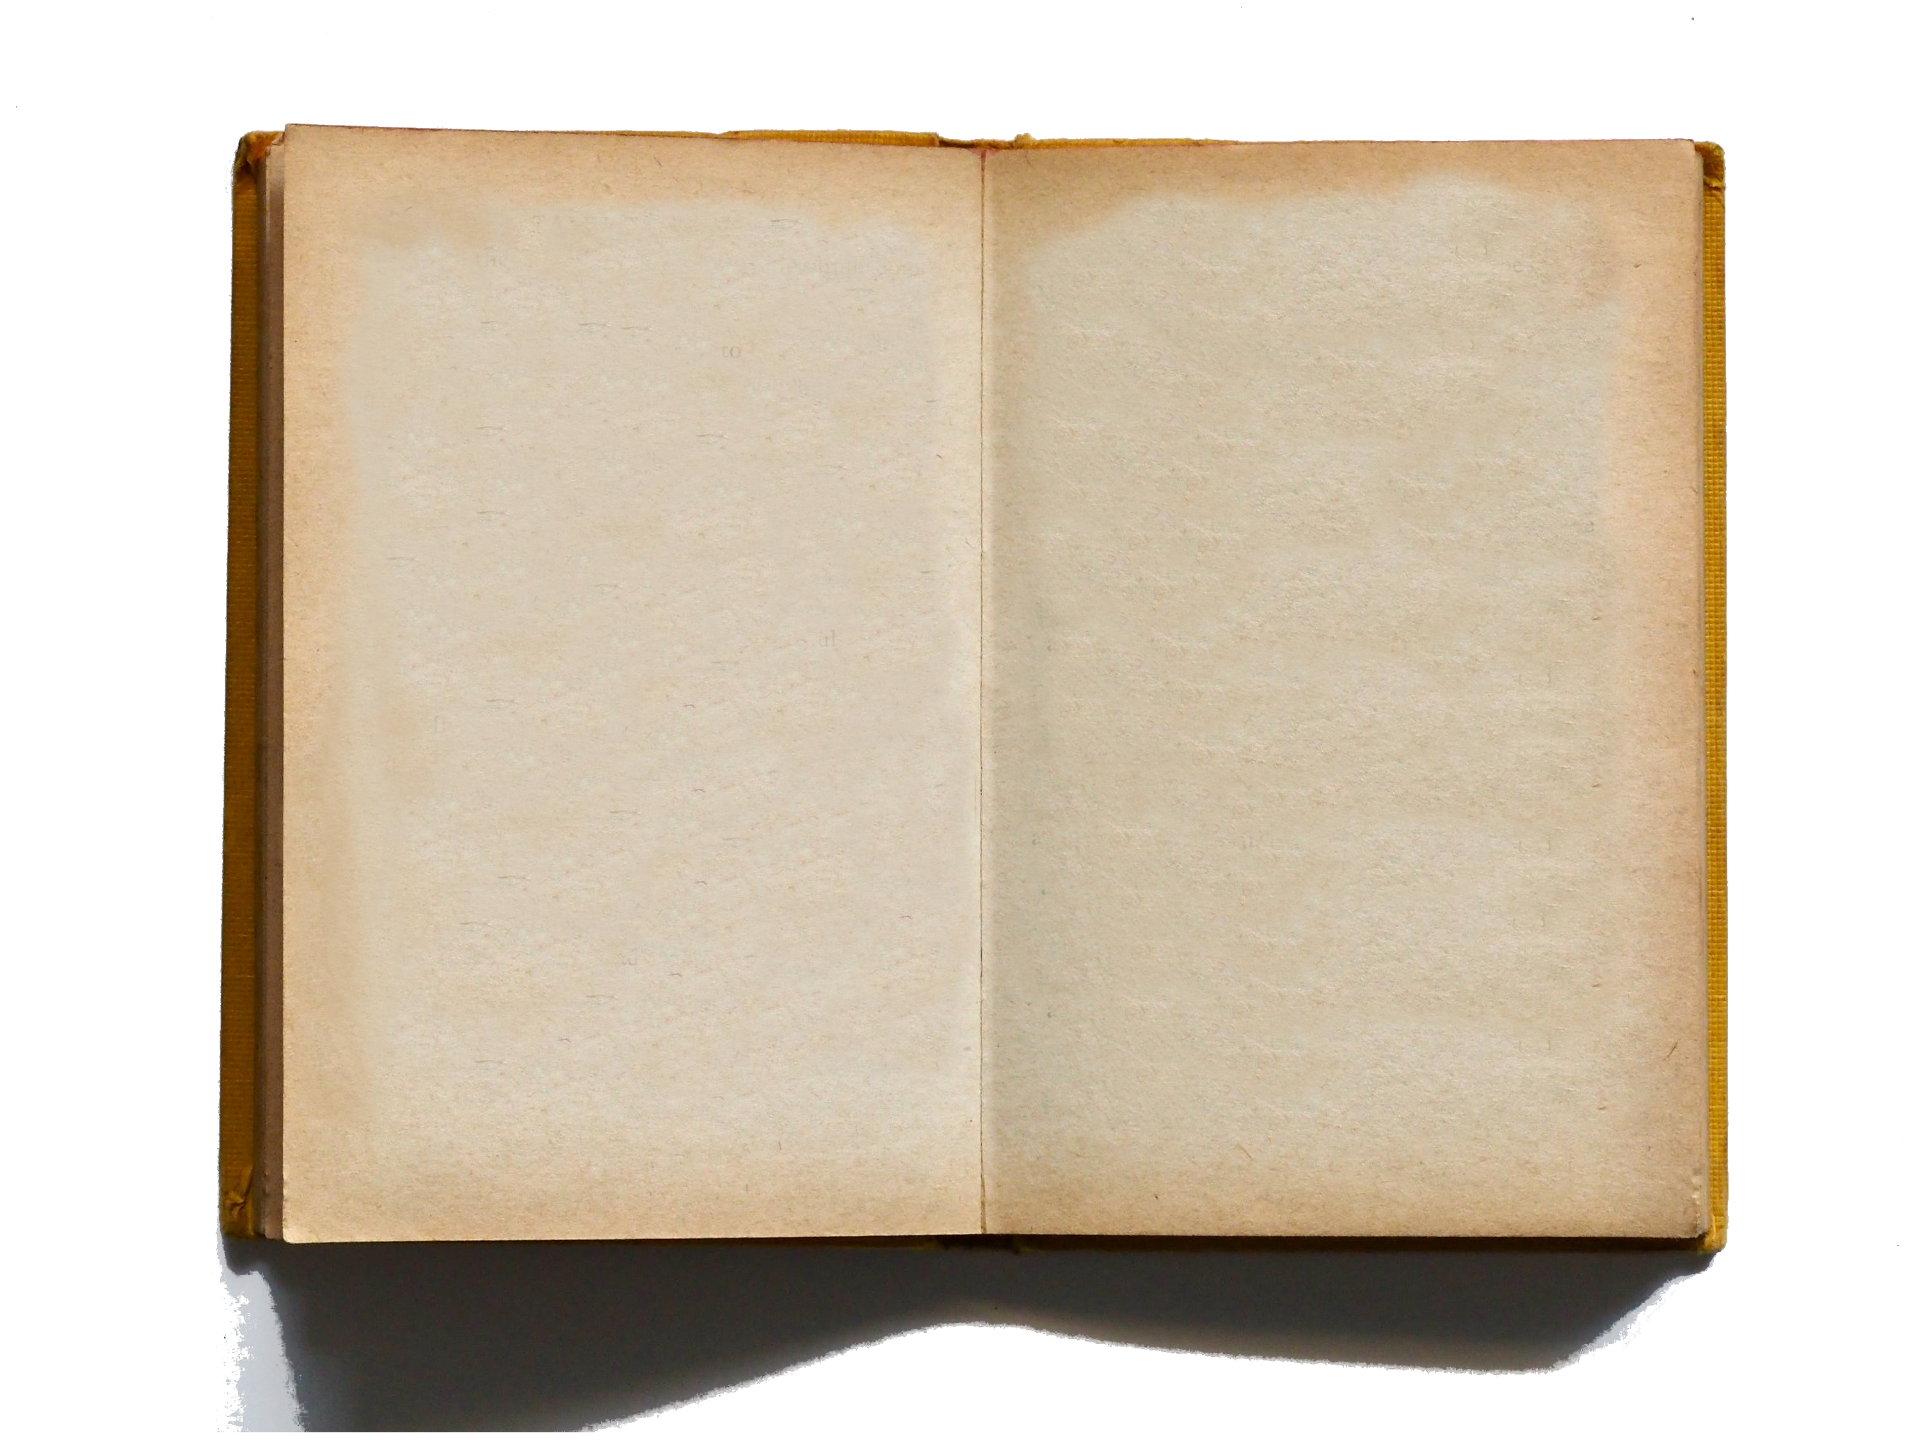
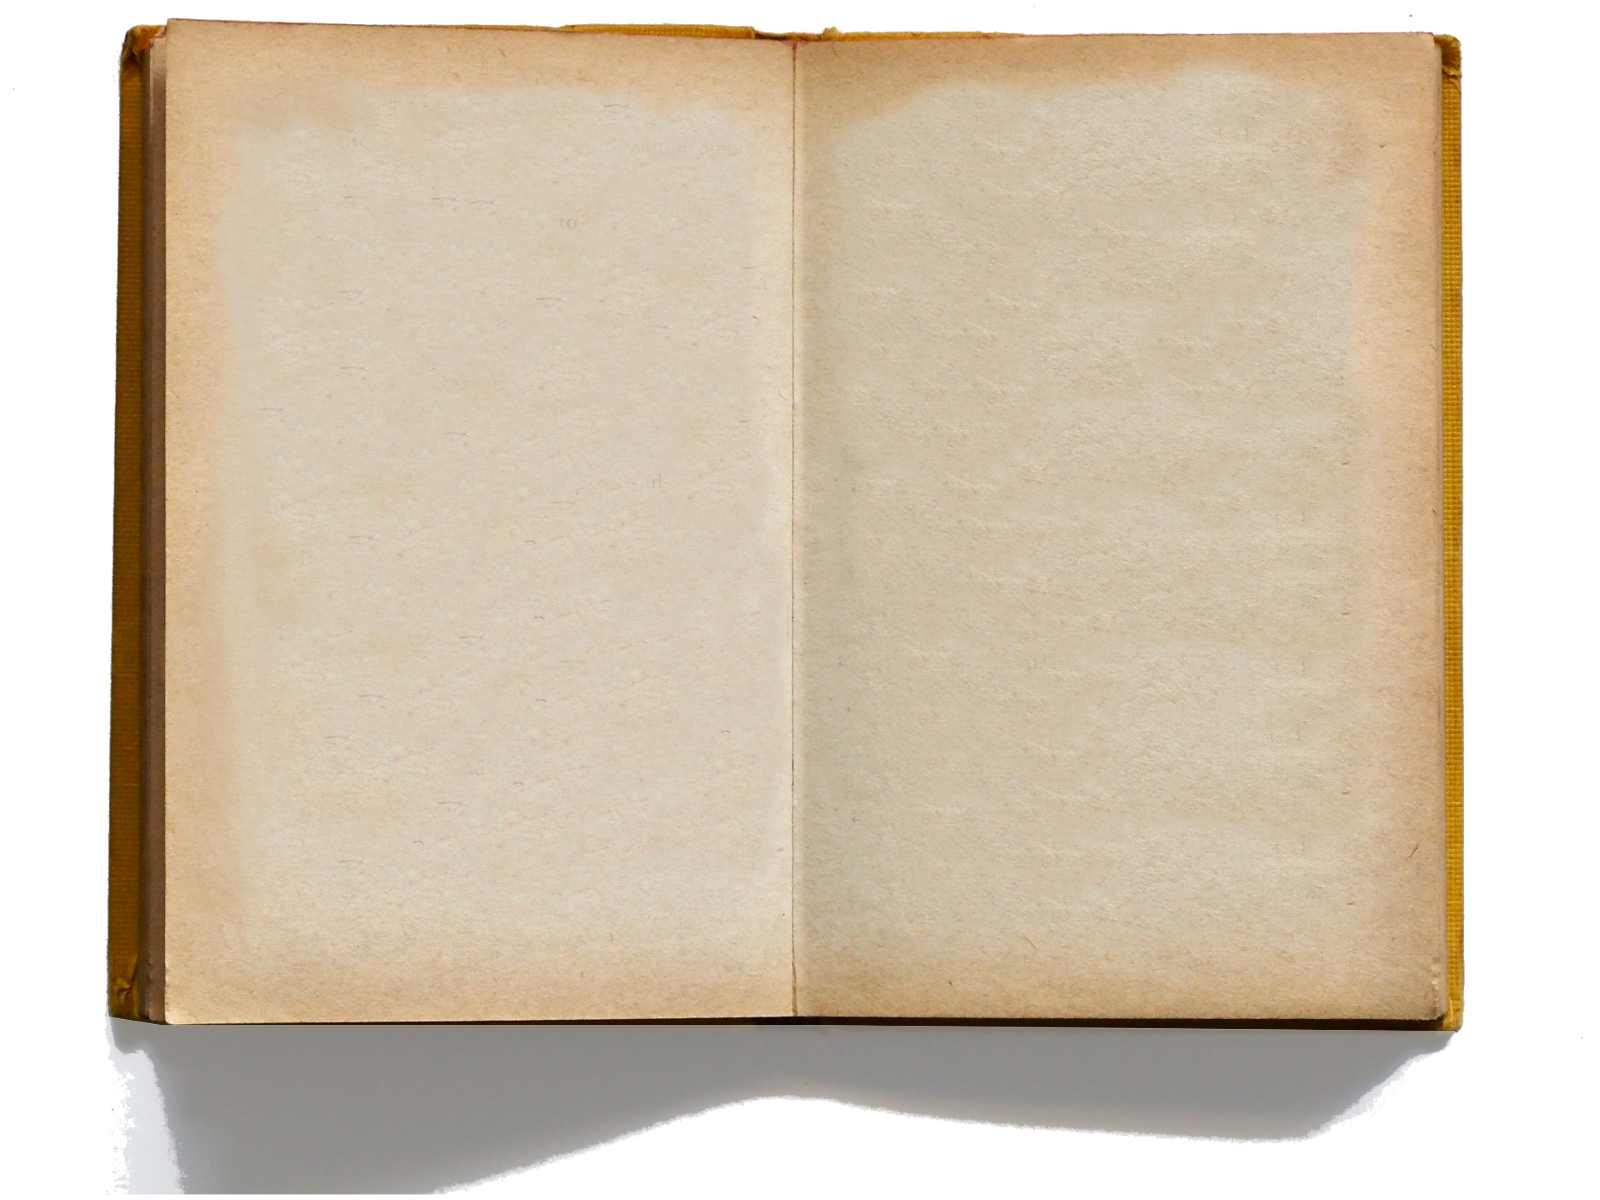
adjust to different screen sizes

Changed region(s): [[0.0625, 0.0, 0.9375, 1.0]]

diff --git a/theme.css b/theme.css
@@ -14,24 +14,67 @@
 
 :root {
 	--border-default-style: 1px #ddd solid;
+	--header-height: 4em;
+	--small-gap: 0.1em;
+	--large-gap: 0.2em;
+	--monospace-font-size: 1em;
+	--font-ratio: 0.02;
 }
 
 body {
 	font-family: 'Crimson';
 	max-width: none;
-	padding: 0;
+	overflow-x: hidden;
+
 	/* set book as background */
+	filter: sepia(0.5);
 	background-color: #cdd5e1;
 	background-image: url('images/book.png');
-	background-position: top center;
+
+	background-position: 0 10vw;
 	background-repeat: no-repeat;
 	background-size: 100vw auto;
-	width: 69.5vw;
-	height: 53vw;
-	margin: 9.5vw 14vw 10vw 16.5vw;
+	width: 80vw;
+	height: 66vw;
+	margin: 10vw;
+	padding: 5vw 4vw;
+	font-size: calc(66vw * var(--font-ratio));
+}
+
+main {
+	overflow: hidden;
 	column-count: 2;
-	column-gap: 5vw;
-	opacity: 0.9;
+	column-gap: 8vw;
+	height: calc(66vw - 10vw - var(--header-height));
+}
+
+@media only screen and (min-width: 1500px) {
+
+  body {
+		background-position: calc(50vw - 750px) 80px;
+		background-repeat: no-repeat;
+		background-size: 1500px auto;
+		width: 1200px;
+		height: 800px;
+		margin: 80px auto;
+		padding: 60px 48px;
+		font-size: calc(1200px * var(--font-ratio));
+  }
+
+	main {
+		height: calc(800px - 120px - var(--header-height));
+	}
+}
+
+header {
+	width: 50%;
+	height: var(--header-height);
+}
+
+header h1 {
+	font-family: 'Crimson';
+	font-weight: bold;
+	font-variant: normal;
 }
 
 header, footer, main {
@@ -42,28 +85,35 @@ header, footer, main {
 }
 
 footer {
-	/* font color */
+	position: absolute;
+	left: 0;
+	right: 0;
+	bottom: 0;
 	font-size: 1em;
 	font-family: 'Crimson';
 	font-weight: normal;
 	font-variant: normal;
 }
 
-h1, h2, h3, h4 {
+footer svg {
+	display: none;
+}
+
+h2, h3, h4 {
 	font-family: 'Crimson';
 	font-weight: bold;
 	font-variant: normal;
 	margin: 0;
-	padding: 24px 0 12px;
+	padding: 2em 0 1em;
 }
 
 section {
 	break-inside: avoid;
 	width: 100%;
-	hyphens: auto;
 }
 
 #exercises,
+#example,
 header input {
 	display: none;
 }
